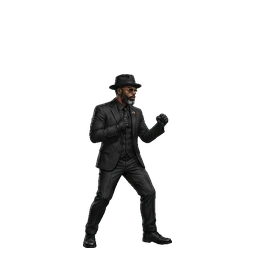
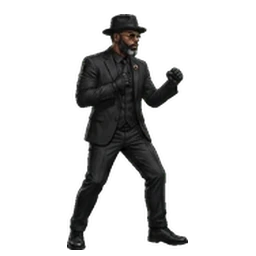
Normalize fighter roster presentation

Changed region(s): [[0.25, 0.0312, 0.75, 1.0]]

diff --git a/lottominded-ultra.io/games/gothtechnology2/tests/browser/game.spec.js b/lottominded-ultra.io/games/gothtechnology2/tests/browser/game.spec.js
@@ -169,7 +169,7 @@ test("boots, reaches versus, fights, and pauses without page errors", async ({ p
   expect(spriteIntegrity.insufficientUnique).toEqual([]);
   expect(spriteIntegrity.splitFrames).toEqual([]);
   const unstableRenderedMotions = await page.evaluate(async () => {
-    const { drawSpriteFrame } = await import("./src/engine/assets.js?v=future-hud21-commercial-arcade-test");
+    const { drawSpriteFrame } = await import("./src/engine/assets.js?v=future-hud22-roster-scale-test");
     const animations = window.__gothTechnologyGame.assets.animations;
     const checkedMotions = [
       "IDLE", "READY_STANCE", "WALK_FORWARD", "RUN_FORWARD", "DASH_FORWARD",
@@ -214,6 +214,22 @@ test("boots, reaches versus, fights, and pauses without page errors", async ({ p
   if (!process.env.NO_TEST_ARTIFACTS) await page.screenshot({ path: testInfo.outputPath(`${testInfo.project.name}-character-select.png`) });
   await clickGame(page, 804, 594);
   await advanceVersusToFight(page);
+  const hudIdentity = await page.evaluate(() => {
+    const context = document.getElementById("game").getContext("2d", { willReadFrequently: true });
+    const score = (x, width) => {
+      const rgba = context.getImageData(x, 14, width, 6).data;
+      let cyan = 0;
+      let red = 0;
+      for (let offset = 0; offset < rgba.length; offset += 4) {
+        cyan = Math.max(cyan, rgba[offset + 1] + rgba[offset + 2] - rgba[offset]);
+        red = Math.max(red, rgba[offset] * 2 - rgba[offset + 1] - rgba[offset + 2]);
+      }
+      return { cyan, red };
+    };
+    return { playerOne: score(40, 470), opponent: score(770, 470) };
+  });
+  expect(hudIdentity.playerOne.cyan).toBeGreaterThan(hudIdentity.playerOne.red);
+  expect(hudIdentity.opponent.red).toBeGreaterThan(hudIdentity.opponent.cyan);
   if (!process.env.NO_TEST_ARTIFACTS) await page.screenshot({ path: testInfo.outputPath(`${testInfo.project.name}-fight.png`) });
 
   await page.keyboard.press("KeyL");
@@ -242,7 +258,35 @@ test("Detroit Lens Noir loads the Boerboel, eye laser, and five Detroit stages",
   page.on("pageerror", (error) => pageErrors.push(error.message));
   await page.goto(gameUrl);
   await expect.poll(() => phase(page)).toBe("title");
-  await expect.poll(() => page.evaluate(() => window.__gothTechnologyGame?.assets?.images?.detroitLensNoirPortrait?.naturalWidth)).toBe(256);
+  await expect.poll(() => page.evaluate(() => {
+    const images = window.__gothTechnologyGame?.assets?.images;
+    return [images?.kalyxPortrait, images?.masterEzraPortrait, images?.detroitLensNoirPortrait]
+      .map((image) => image?.naturalWidth ?? 0);
+  })).toEqual([256, 256, 256]);
+  const portraitMetrics = await page.evaluate(() => {
+    const images = window.__gothTechnologyGame.assets.images;
+    return [images.kalyxPortrait, images.masterEzraPortrait, images.detroitLensNoirPortrait].map((image) => {
+      const canvas = document.createElement("canvas");
+      canvas.width = image.naturalWidth;
+      canvas.height = image.naturalHeight;
+      const context = canvas.getContext("2d", { willReadFrequently: true });
+      context.drawImage(image, 0, 0);
+      const rgba = context.getImageData(0, 0, canvas.width, canvas.height).data;
+      let minY = canvas.height;
+      let maxY = -1;
+      for (let y = 0; y < canvas.height; y += 1) {
+        for (let x = 0; x < canvas.width; x += 1) {
+          if (rgba[(y * canvas.width + x) * 4 + 3] <= 8) continue;
+          minY = Math.min(minY, y);
+          maxY = Math.max(maxY, y);
+        }
+      }
+      return { height: maxY - minY + 1, bottom: maxY };
+    });
+  });
+  expect(Math.max(...portraitMetrics.map(({ height }) => height)) - Math.min(...portraitMetrics.map(({ height }) => height))).toBeLessThanOrEqual(2);
+  expect(Math.min(...portraitMetrics.map(({ height }) => height))).toBeGreaterThanOrEqual(232);
+  expect(Math.max(...portraitMetrics.map(({ bottom }) => bottom)) - Math.min(...portraitMetrics.map(({ bottom }) => bottom))).toBeLessThanOrEqual(2);
   await page.evaluate(() => window.__gothTechnologyGame.openMode("training"));
   await expect.poll(() => phase(page), { timeout: 30_000 }).toBe("select");
   await expect.poll(() => page.evaluate(() => window.__gothTechnologyGame?.matchAssetsReady), { timeout: 60_000 }).toBe(true);

diff --git a/lottominded-ultra.io/games/gothtechnology2/src/ui/hud.js b/lottominded-ultra.io/games/gothtechnology2/src/ui/hud.js
@@ -1,7 +1,7 @@
 import { CANVAS_HEIGHT, CANVAS_WIDTH, COLORS, ROUND_SECONDS } from "../config/constants.js";
-import { FIGHTERS } from "../config/assets.js?v=future-hud21-commercial-arcade";
-import { GAME_MODES, ROSTER_CARD_LAYOUT, ROSTER_IDS, STAGES } from "../config/content.js?v=future-hud21-commercial-arcade";
-import { drawSpriteFrame } from "../engine/assets.js?v=future-hud21-commercial-arcade";
+import { FIGHTERS } from "../config/assets.js?v=future-hud22-roster-scale";
+import { GAME_MODES, ROSTER_CARD_LAYOUT, ROSTER_IDS, STAGES } from "../config/content.js?v=future-hud22-roster-scale";
+import { drawSpriteFrame } from "../engine/assets.js?v=future-hud22-roster-scale";
 
 const FUTURE = {
   cyan: "#67e8ff",
@@ -211,12 +211,12 @@ export const drawFightHud = (ctx, game) => {
     ctx.fillRect(16, 8, CANVAS_WIDTH - 32, 154);
   }
 
-  drawAngularPanel(ctx, 24, 16, 500, 116, "rgba(2, 8, 12, 0.9)", FUTURE.red, 2, 12);
-  drawAngularPanel(ctx, 756, 16, 500, 116, "rgba(2, 8, 12, 0.9)", FUTURE.cyan, 2, 12);
+  drawAngularPanel(ctx, 24, 16, 500, 116, "rgba(2, 8, 12, 0.9)", FUTURE.cyan, 2, 12);
+  drawAngularPanel(ctx, 756, 16, 500, 116, "rgba(2, 8, 12, 0.9)", FUTURE.red, 2, 12);
   drawFutureCombatBar(ctx, 48, 50, 448, 20, p1.health / p1.config.maxHealth, "#ff5b57");
   drawFutureCombatBar(ctx, 784, 50, 448, 20, p2.health / p2.config.maxHealth, "#ff5b57", true);
   drawFutureCombatBar(ctx, 48, 92, 304, 10, p1.meter / 100, FUTURE.cyan);
-  drawFutureCombatBar(ctx, 928, 92, 304, 10, p2.meter / 100, FUTURE.cyan, true);
+  drawFutureCombatBar(ctx, 928, 92, 304, 10, p2.meter / 100, FUTURE.red, true);
 
   ctx.textBaseline = "middle";
   ctx.fillStyle = FUTURE.white;
@@ -234,7 +234,7 @@ export const drawFightHud = (ctx, game) => {
   ctx.textAlign = "right";
   ctx.fillStyle = FUTURE.muted;
   ctx.fillText(`${Math.ceil(p2.health)} HP`, 1232, 80);
-  ctx.fillStyle = FUTURE.cyan;
+  ctx.fillStyle = FUTURE.red;
   ctx.fillText(`DRIVE ${Math.round(p2.meter)}%`, 1232, 116);
 
   drawAngularPanel(ctx, 548, 12, 184, 112, "rgba(2, 8, 12, 0.96)", FUTURE.amber, 2, 12);
@@ -250,9 +250,9 @@ export const drawFightHud = (ctx, game) => {
   ctx.fillText(game.isReplay ? `REPLAY ${game.replaySpeed}X` : STAGES[game.stageIndex].name, 640, 103);
 
   for (let index = 0; index < 2; index += 1) {
-    ctx.fillStyle = index < p1.roundWins ? FUTURE.red : "rgba(238,250,255,0.18)";
+    ctx.fillStyle = index < p1.roundWins ? FUTURE.cyan : "rgba(238,250,255,0.18)";
     ctx.fillRect(374 + index * 18, 94, 12, 8);
-    ctx.fillStyle = index < p2.roundWins ? FUTURE.cyan : "rgba(238,250,255,0.18)";
+    ctx.fillStyle = index < p2.roundWins ? FUTURE.red : "rgba(238,250,255,0.18)";
     ctx.fillRect(894 - index * 18, 94, 12, 8);
   }
 
@@ -796,7 +796,7 @@ const drawCharacterCard = (ctx, x, y, w, h, fighter, name, subtitle, selected, o
   for (let sy = y + 12; sy < y + h - 94; sy += 6) ctx.fillRect(x + 8, sy, w - 16, 1);
   ctx.fillStyle = selected ? "rgba(103, 232, 255, 0.12)" : (opponent ? "rgba(255, 64, 93, 0.1)" : "rgba(255,255,255,0.035)");
   ctx.fillRect(x + 8, y + h - 110, w - 16, 18);
-  if (fighter) drawFighterPortrait(ctx, fighter, x + w / 2, y + h - 92, 0.82);
+  if (fighter) drawRosterPortrait(ctx, fighter, x + w / 2, y + h - 92, 0.82);
   ctx.restore();
   ctx.save();
   ctx.fillStyle = "rgba(2, 6, 10, 0.98)";
@@ -841,6 +841,17 @@ const drawFighterPortrait = (ctx, fighter, x, y, scale) => {
     const height = portrait.naturalHeight * scale;
     ctx.drawImage(portrait, x - width / 2, y - height, width, height);
   }
+};
+
+const drawRosterPortrait = (ctx, fighter, x, y, scale) => {
+  const portrait = fighter.assets.images[fighter.config.rosterPortraitKey];
+  if (portrait?.naturalWidth > 0) {
+    const width = portrait.naturalWidth * scale;
+    const height = portrait.naturalHeight * scale;
+    ctx.drawImage(portrait, x - width / 2, y - height, width, height);
+    return;
+  }
+  drawFighterPortrait(ctx, fighter, x, y, scale);
 };
 
 const drawCoverImage = (ctx, image, x = 0, y = 0, width = CANVAS_WIDTH, height = CANVAS_HEIGHT) => {

diff --git a/lottominded-ultra.io/games/gothtechnology2/src/scenes/game.js b/lottominded-ultra.io/games/gothtechnology2/src/scenes/game.js
@@ -1,17 +1,17 @@
-import { ASSET_URLS, COMMERCIAL_URLS, FIGHTERS } from "../config/assets.js?v=future-hud21-commercial-arcade";
-import { arcadeRouteFor, GAME_MODES, ROSTER_CARD_LAYOUT, ROSTER_IDS, STAGES, opponentFor } from "../config/content.js?v=future-hud21-commercial-arcade";
-import { ASSISTS, ATTACKS } from "../config/moves.js?v=future-hud21-commercial-arcade";
+import { ASSET_URLS, COMMERCIAL_URLS, FIGHTERS } from "../config/assets.js?v=future-hud22-roster-scale";
+import { arcadeRouteFor, GAME_MODES, ROSTER_CARD_LAYOUT, ROSTER_IDS, STAGES, opponentFor } from "../config/content.js?v=future-hud22-roster-scale";
+import { ASSISTS, ATTACKS } from "../config/moves.js?v=future-hud22-roster-scale";
 import { CANVAS_HEIGHT, CANVAS_WIDTH, COLORS, GROUND_Y, PHASE, ROUND_SECONDS, WORLD } from "../config/constants.js";
-import { AssetLoader } from "../engine/assets.js?v=future-hud21-commercial-arcade";
-import { WebAudioBus } from "../engine/audio.js?v=future-hud21-commercial-arcade";
-import { InputManager } from "../engine/input.js?v=future-hud21-commercial-arcade";
+import { AssetLoader } from "../engine/assets.js?v=future-hud22-roster-scale";
+import { WebAudioBus } from "../engine/audio.js?v=future-hud22-roster-scale";
+import { InputManager } from "../engine/input.js?v=future-hud22-roster-scale";
 import { clamp, rectsOverlap } from "../engine/math.js";
-import { applyHit, resolveMelee } from "../gameplay/combat.js?v=future-hud21-commercial-arcade";
-import { CpuController } from "../gameplay/cpu.js?v=future-hud21-commercial-arcade";
-import { AttachedSpriteEffect, SpriteEffect } from "../gameplay/effects.js?v=future-hud21-commercial-arcade";
-import { Fighter } from "../gameplay/fighter.js?v=future-hud21-commercial-arcade";
-import { AssistStrike, BoerboelStrike, Projectile } from "../gameplay/projectiles.js?v=future-hud21-commercial-arcade";
-import { applyRoundOutcomeMotions, resolveRoundOutcome } from "../gameplay/rounds.js?v=future-hud21-commercial-arcade";
+import { applyHit, resolveMelee } from "../gameplay/combat.js?v=future-hud22-roster-scale";
+import { CpuController } from "../gameplay/cpu.js?v=future-hud22-roster-scale";
+import { AttachedSpriteEffect, SpriteEffect } from "../gameplay/effects.js?v=future-hud22-roster-scale";
+import { Fighter } from "../gameplay/fighter.js?v=future-hud22-roster-scale";
+import { AssistStrike, BoerboelStrike, Projectile } from "../gameplay/projectiles.js?v=future-hud22-roster-scale";
+import { applyRoundOutcomeMotions, resolveRoundOutcome } from "../gameplay/rounds.js?v=future-hud22-roster-scale";
 import {
   drawCharacterSelect,
   drawDiagnostics,
@@ -23,7 +23,7 @@ import {
   drawRoundMessage,
   drawTitle,
   drawVersus
-} from "../ui/hud.js?v=future-hud21-commercial-arcade";
+} from "../ui/hud.js?v=future-hud22-roster-scale";
 
 const GAME_SELECT_ITEMS = [
   {

diff --git a/lottominded-ultra.io/games/gothtechnology2/tests/gameplay.test.js b/lottominded-ultra.io/games/gothtechnology2/tests/gameplay.test.js
@@ -2,7 +2,7 @@ import assert from "node:assert/strict";
 import { readFileSync } from "node:fs";
 import test from "node:test";
 import { attackIntentFromActions, resolveCancelAttack } from "../src/gameplay/commands.js";
-import { COMMERCIAL_URLS, FIGHTERS, MOTION_PLAYBACK } from "../src/config/assets.js";
+import { ASSET_URLS, COMMERCIAL_URLS, FIGHTERS, MOTION_PLAYBACK } from "../src/config/assets.js";
 import { ARCADE_LADDER, COMMAND_LISTS, GAME_MODES, ROSTER_CARD_LAYOUT, ROSTER_IDS, STAGES, arcadeRouteFor } from "../src/config/content.js";
 import { GROUND_Y } from "../src/config/constants.js";
 import { Fighter } from "../src/gameplay/fighter.js";
@@ -143,6 +143,8 @@ test("Detroit Lens Noir ships a complete guardian kit, Boerboel command list, an
   assert.equal(Object.keys(motionManifest.characters.DETROIT_LENS_NOIR.motions).length, 39);
   assert.deepEqual(ROSTER_IDS, ["KALYX", "MASTER_EZRA", "DETROIT_LENS_NOIR"]);
   assert.equal(ROSTER_CARD_LAYOUT.length, ROSTER_IDS.length);
+  assert.deepEqual(Object.keys(ASSET_URLS.rosterPortraits), ["kalyx", "masterEzra", "detroitLensNoir"]);
+  assert.equal(new Set(ROSTER_IDS.map((id) => FIGHTERS[id].rosterPortraitKey)).size, ROSTER_IDS.length);
   assert.ok(!Object.hasOwn(FIGHTERS, "KALYX_ECLIPSE"));
   assert.ok(!Object.hasOwn(FIGHTERS, "EZRA_ASCENDANT"));
   assert.ok(!Object.hasOwn(COMMAND_LISTS, "KALYX_ECLIPSE"));

diff --git a/lottominded-ultra.io/games/gothtechnology2/src/config/assets.js b/lottominded-ultra.io/games/gothtechnology2/src/config/assets.js
@@ -1,6 +1,6 @@
 export const PACK_ROOT = "assets/GOTHTECHNOLOGY_EXPANDED_SPRITE_PACK_V2";
 export const LOCAL_ROOT = "assets";
-export const MOTION_ASSET_VERSION = "future-hud21-commercial-arcade";
+export const MOTION_ASSET_VERSION = "future-hud22-roster-scale";
 
 export const COMMERCIAL_URLS = [
   `${LOCAL_ROOT}/commercials/detroit-commercial-01.mp4`,
@@ -17,6 +17,8 @@ export const ASSET_URLS = {
     robotRahbe: `${LOCAL_ROOT}/user-title/robot-rahbe-title-card.webp?v=${MOTION_ASSET_VERSION}`
   },
   rosterPortraits: {
+    kalyx: `${LOCAL_ROOT}/user-roster/kalyx-idle.webp?v=${MOTION_ASSET_VERSION}`,
+    masterEzra: `${LOCAL_ROOT}/user-roster/master-ezra-idle.webp?v=${MOTION_ASSET_VERSION}`,
     detroitLensNoir: `${LOCAL_ROOT}/user-roster/detroit-lens-noir-idle.webp?v=${MOTION_ASSET_VERSION}`
   },
   background: `${LOCAL_ROOT}/user-stage/forest-fight-background.jpg`,
@@ -104,6 +106,7 @@ export const FIGHTERS = {
     palette: "#c51f35",
     accent: "#ff5b68",
     costumePalette: "black-crimson",
+    rosterPortraitKey: "kalyxPortrait",
     scale: 1.34,
     stableScale: 1.34,
     airScale: 1.14,
@@ -272,6 +275,7 @@ export const FIGHTERS = {
     spriteFacing: 1,
     palette: "#8bd4ff",
     accent: "#d8aa45",
+    rosterPortraitKey: "masterEzraPortrait",
     scale: 1.3,
     stableScale: 1.3,
     airScale: 1.12,

diff --git a/lottominded-ultra.io/games/gothtechnology2/src/gameplay/fighter.js b/lottominded-ultra.io/games/gothtechnology2/src/gameplay/fighter.js
@@ -1,8 +1,8 @@
 import { GRAVITY, GROUND_Y, WORLD } from "../config/constants.js";
-import { ATTACKS } from "../config/moves.js?v=future-hud21-commercial-arcade";
-import { drawSpriteFrame } from "../engine/assets.js?v=future-hud21-commercial-arcade";
+import { ATTACKS } from "../config/moves.js?v=future-hud22-roster-scale";
+import { drawSpriteFrame } from "../engine/assets.js?v=future-hud22-roster-scale";
 import { approach, clamp, makeRect } from "../engine/math.js";
-import { attackIntentFromActions, resolveCancelAttack } from "./commands.js?v=future-hud21-commercial-arcade";
+import { attackIntentFromActions, resolveCancelAttack } from "./commands.js?v=future-hud22-roster-scale";
 import { SpriteEffect } from "./effects.js";
 
 const MOTION_LOCKS = new Set([

diff --git a/lottominded-ultra.io/games/gothtechnology2/src/engine/assets.js b/lottominded-ultra.io/games/gothtechnology2/src/engine/assets.js
@@ -1,4 +1,4 @@
-import { ASSET_URLS, MOTION_ASSET_VERSION, MOTION_PLAYBACK } from "../config/assets.js?v=future-hud21-commercial-arcade";
+import { ASSET_URLS, MOTION_ASSET_VERSION, MOTION_PLAYBACK } from "../config/assets.js?v=future-hud22-roster-scale";
 
 const imageCache = new Map();
 
@@ -49,6 +49,8 @@ export class AssetLoader {
   loadMenuAssets(onProgress = () => {}) {
     return this.loadGroup("menu", {
       logo: ASSET_URLS.logo,
+      kalyxPortrait: ASSET_URLS.rosterPortraits.kalyx,
+      masterEzraPortrait: ASSET_URLS.rosterPortraits.masterEzra,
       detroitLensNoirPortrait: ASSET_URLS.rosterPortraits.detroitLensNoir
     }, onProgress, { strict: false });
   }

diff --git a/lottominded-ultra.io/games/gothtechnology2/src/main.js b/lottominded-ultra.io/games/gothtechnology2/src/main.js
@@ -1,6 +1,6 @@
-import { FIGHTERS } from "./config/assets.js?v=future-hud21-commercial-arcade";
-import { COMMAND_LISTS, GAME_MODES, ROSTER_IDS } from "./config/content.js?v=future-hud21-commercial-arcade";
-import { GothTechnologyGame } from "./scenes/game.js?v=future-hud21-commercial-arcade";
+import { FIGHTERS } from "./config/assets.js?v=future-hud22-roster-scale";
+import { COMMAND_LISTS, GAME_MODES, ROSTER_IDS } from "./config/content.js?v=future-hud22-roster-scale";
+import { GothTechnologyGame } from "./scenes/game.js?v=future-hud22-roster-scale";
 import { PHASE } from "./config/constants.js";
 
 const syncViewportHeight = () => {

diff --git a/lottominded-ultra.io/games/gothtechnology2/src/gameplay/combat.js b/lottominded-ultra.io/games/gothtechnology2/src/gameplay/combat.js
@@ -1,7 +1,7 @@
 import { rectsOverlap } from "../engine/math.js";
-import { ATTACKS } from "../config/moves.js?v=future-hud21-commercial-arcade";
+import { ATTACKS } from "../config/moves.js?v=future-hud22-roster-scale";
 import { FloatingText, SpriteEffect } from "./effects.js";
-import { registerAttackHit, sliceAttackForHit } from "./hits.js?v=future-hud21-commercial-arcade";
+import { registerAttackHit, sliceAttackForHit } from "./hits.js?v=future-hud22-roster-scale";
 
 export function resolveMelee(attacker, defender, game) {
   const attackState = attacker.currentAttack;

diff --git a/lottominded-ultra.io/games/gothtechnology2/src/gameplay/projectiles.js b/lottominded-ultra.io/games/gothtechnology2/src/gameplay/projectiles.js
@@ -1,7 +1,7 @@
-import { drawSheetFrame } from "../engine/assets.js?v=future-hud21-commercial-arcade";
+import { drawSheetFrame } from "../engine/assets.js?v=future-hud22-roster-scale";
 import { rectsOverlap } from "../engine/math.js";
 import { SpriteEffect } from "./effects.js";
-import { sliceAttackForHit } from "./hits.js?v=future-hud21-commercial-arcade";
+import { sliceAttackForHit } from "./hits.js?v=future-hud22-roster-scale";
 
 const hexAlpha = (color, alpha) => {
   if (!color?.startsWith("#") || color.length !== 7) return color;

diff --git a/lottominded-ultra.io/games/gothtechnology2/index.html b/lottominded-ultra.io/games/gothtechnology2/index.html
@@ -814,6 +814,6 @@
       </section>
     </div>
     <script src="../../assets/js/lm-game-rewards-sdk.js?v=rewards-sdk-1"></script>
-    <script type="module" src="./src/main.js?v=future-hud21-commercial-arcade"></script>
+    <script type="module" src="./src/main.js?v=future-hud22-roster-scale"></script>
   </body>
 </html>

diff --git a/lottominded-ultra.io/games/gothtechnology2/scripts/extract-roster-portraits.py b/lottominded-ultra.io/games/gothtechnology2/scripts/extract-roster-portraits.py
@@ -11,6 +11,8 @@ ATLAS_ROOT = ROOT / "assets" / "motion-atlases"
 OUTPUT_ROOT = ROOT / "assets" / "user-roster"
 MANIFEST_PATH = ATLAS_ROOT / "motion-atlas-manifest.json"
 CHARACTERS = {
+    "KALYX": "kalyx-idle.webp",
+    "MASTER_EZRA": "master-ezra-idle.webp",
     "DETROIT_LENS_NOIR": "detroit-lens-noir-idle.webp",
 }
 
@@ -25,7 +27,14 @@ def main() -> None:
         left = frame["x"] + content["x"]
         top = frame["y"] + content["y"]
         figure = atlas.crop((left, top, left + content["w"], top + content["h"]))
-        figure.thumbnail((220, 236), Image.Resampling.LANCZOS)
+        alpha_bounds = figure.getbbox()
+        if alpha_bounds:
+            figure = figure.crop(alpha_bounds)
+        scale = min(220 / figure.width, 236 / figure.height)
+        figure = figure.resize(
+            (max(1, round(figure.width * scale)), max(1, round(figure.height * scale))),
+            Image.Resampling.LANCZOS,
+        )
         portrait = Image.new("RGBA", (256, 256), (0, 0, 0, 0))
         portrait.alpha_composite(figure, ((256 - figure.width) // 2, 250 - figure.height))
         output = OUTPUT_ROOT / filename
